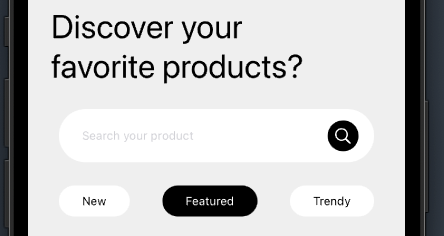
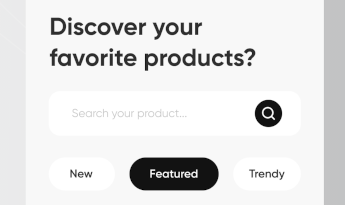
Part two

diff --git a/YT-DribbbleUI-One/ViewController.swift b/YT-DribbbleUI-One/ViewController.swift
@@ -105,6 +105,53 @@ class ViewController: UIViewController {
         return textField
       }()
     
+    
+    //The first instance of the CategoryView,
+    //The text value of the UILabel within it is set to "New",
+    //While the text color of the UILabel is set to "black"
+    //And fnally the view's background color is set to "white"
+    var newCategory: CategoryView = {
+        let category = CategoryView()
+        category.categoryLbl.text = "New"
+        category.categoryLbl.textColor = .black
+        category.backgroundColor = .white
+        category.translatesAutoresizingMaskIntoConstraints = false
+        return category
+    }()
+
+    //This CategoryView is set to "Featured"
+    //And is basically a reverse of the previous
+    var featuredCategory: CategoryView = {
+        let category = CategoryView()
+        category.categoryLbl.text = "Featured"
+        category.categoryLbl.textColor = .white
+        category.backgroundColor = .black
+        category.translatesAutoresizingMaskIntoConstraints = false
+        return category
+    }()
+
+    //The final Category view is essentially a copy of the first
+    //Scroll up and take another look at the 'pills' image for a quick refresher
+    var trendyCategory: CategoryView = {
+        let category = CategoryView()
+        category.categoryLbl.text = "Trendy"
+        category.categoryLbl.textColor = .black
+        category.backgroundColor = .white
+        category.translatesAutoresizingMaskIntoConstraints = false
+        return category
+    }()
+
+    //The stackview has it's spacing and distribution properties set
+    let categoryStackView: UIStackView = {
+        let stackView = UIStackView()
+        stackView.spacing = 8
+        stackView.axis = .horizontal
+        stackView.alignment = .center
+        stackView.distribution = .equalSpacing
+        stackView.translatesAutoresizingMaskIntoConstraints = false
+        return stackView
+    }()
+    
     func configViews(){
         view.addSubview(profileImage)
         view.addSubview(greetingLabel)
@@ -117,6 +164,13 @@ class ViewController: UIViewController {
         // the previously empty UIView
         searchView.addSubview(searchIcon)
         searchView.addSubview(searchTextField)
+        
+        
+        //First, the stackview is added
+        view.addSubview(categoryStackView)
+        categoryStackView.addArrangedSubview(newCategory)
+        categoryStackView.addArrangedSubview(featuredCategory)
+        categoryStackView.addArrangedSubview(trendyCategory)
     }
 
     func configConstraints() {
@@ -169,8 +223,6 @@ class ViewController: UIViewController {
         // is set to 24 (3 * 8) pts from the notification button's right side
         
         
-        
-        
         //the large title is anchored 32 pts below the first set of items,
         //24 pts from the left of the parent view,
         //32 pts from the right of the parentview
@@ -211,7 +263,19 @@ class ViewController: UIViewController {
         //Again, the textfield is WITHIN the searchview
         //so it's Y anchor is set to the searchviews, centering it horizontally
         searchTextField.centerYAnchor.constraint(equalTo: searchView.centerYAnchor),
-        searchTextField.leadingAnchor.constraint(equalToSystemSpacingAfter: searchView.leadingAnchor, multiplier: 3)
+        searchTextField.leadingAnchor.constraint(equalToSystemSpacingAfter: searchView.leadingAnchor, multiplier: 3),
+        
+        categoryStackView.topAnchor.constraint(equalToSystemSpacingBelow: searchView.bottomAnchor, multiplier: 3),
+        categoryStackView.leadingAnchor.constraint(equalToSystemSpacingAfter: view.leadingAnchor, multiplier: 4),
+        categoryStackView.heightAnchor.constraint(equalToConstant: 32),
+        view.trailingAnchor.constraint(equalToSystemSpacingAfter: categoryStackView.trailingAnchor, multiplier: 4),
+                    
+        //the CategoryViews are given a height of 32,
+        //in order for those rounded corners which were set to 16
+        //to have that circular shape
+        newCategory.heightAnchor.constraint(equalToConstant: 32),
+        featuredCategory.heightAnchor.constraint(equalToConstant: 32),
+        trendyCategory.heightAnchor.constraint(equalToConstant: 32),
         ])
     }
 

diff --git a/YT-DribbbleUI-One/CategoryView.swift b/YT-DribbbleUI-One/CategoryView.swift
@@ -1,0 +1,50 @@
+//
+//  CategoryView.swift
+//  YT-DribbbleUI-One
+//
+//  Created by Charles Edwards on 9/26/23.
+//
+
+import UIKit
+
+//CategoryView inherts from UIView
+class CategoryView: UIView {
+
+    override init(frame: CGRect) {
+        super.init(frame: frame)
+    
+        configViews()
+        configConstraints()
+    }
+            
+    required init?(coder: NSCoder) {
+        fatalError("init(coder:) has not been implemented")
+    }
+
+//This view contains a UILabel,
+// which will be used to set the text for the 'pills'
+    var categoryLbl: UILabel = {
+        let label = UILabel()
+        label.font = .preferredFont(forTextStyle: .caption1)
+        label.translatesAutoresizingMaskIntoConstraints = false
+        return label
+    }()
+
+    func configViews(){
+//The view's corners are rounded to give it the 'pill' shape
+        layer.cornerRadius = 16
+//The label is added to the parent view
+        addSubview(categoryLbl)
+    }
+    
+    func configConstraints(){
+//The label is then then centered horizontally within the view
+//with 24 pts of space from the view's leading and trailing anchors
+        NSLayoutConstraint.activate([
+            categoryLbl.leadingAnchor.constraint(equalToSystemSpacingAfter: leadingAnchor, multiplier: 3),
+            categoryLbl.centerYAnchor.constraint(equalTo: centerYAnchor),
+            trailingAnchor.constraint(equalToSystemSpacingAfter: categoryLbl.trailingAnchor, multiplier: 3)
+        ])
+    }
+
+}
